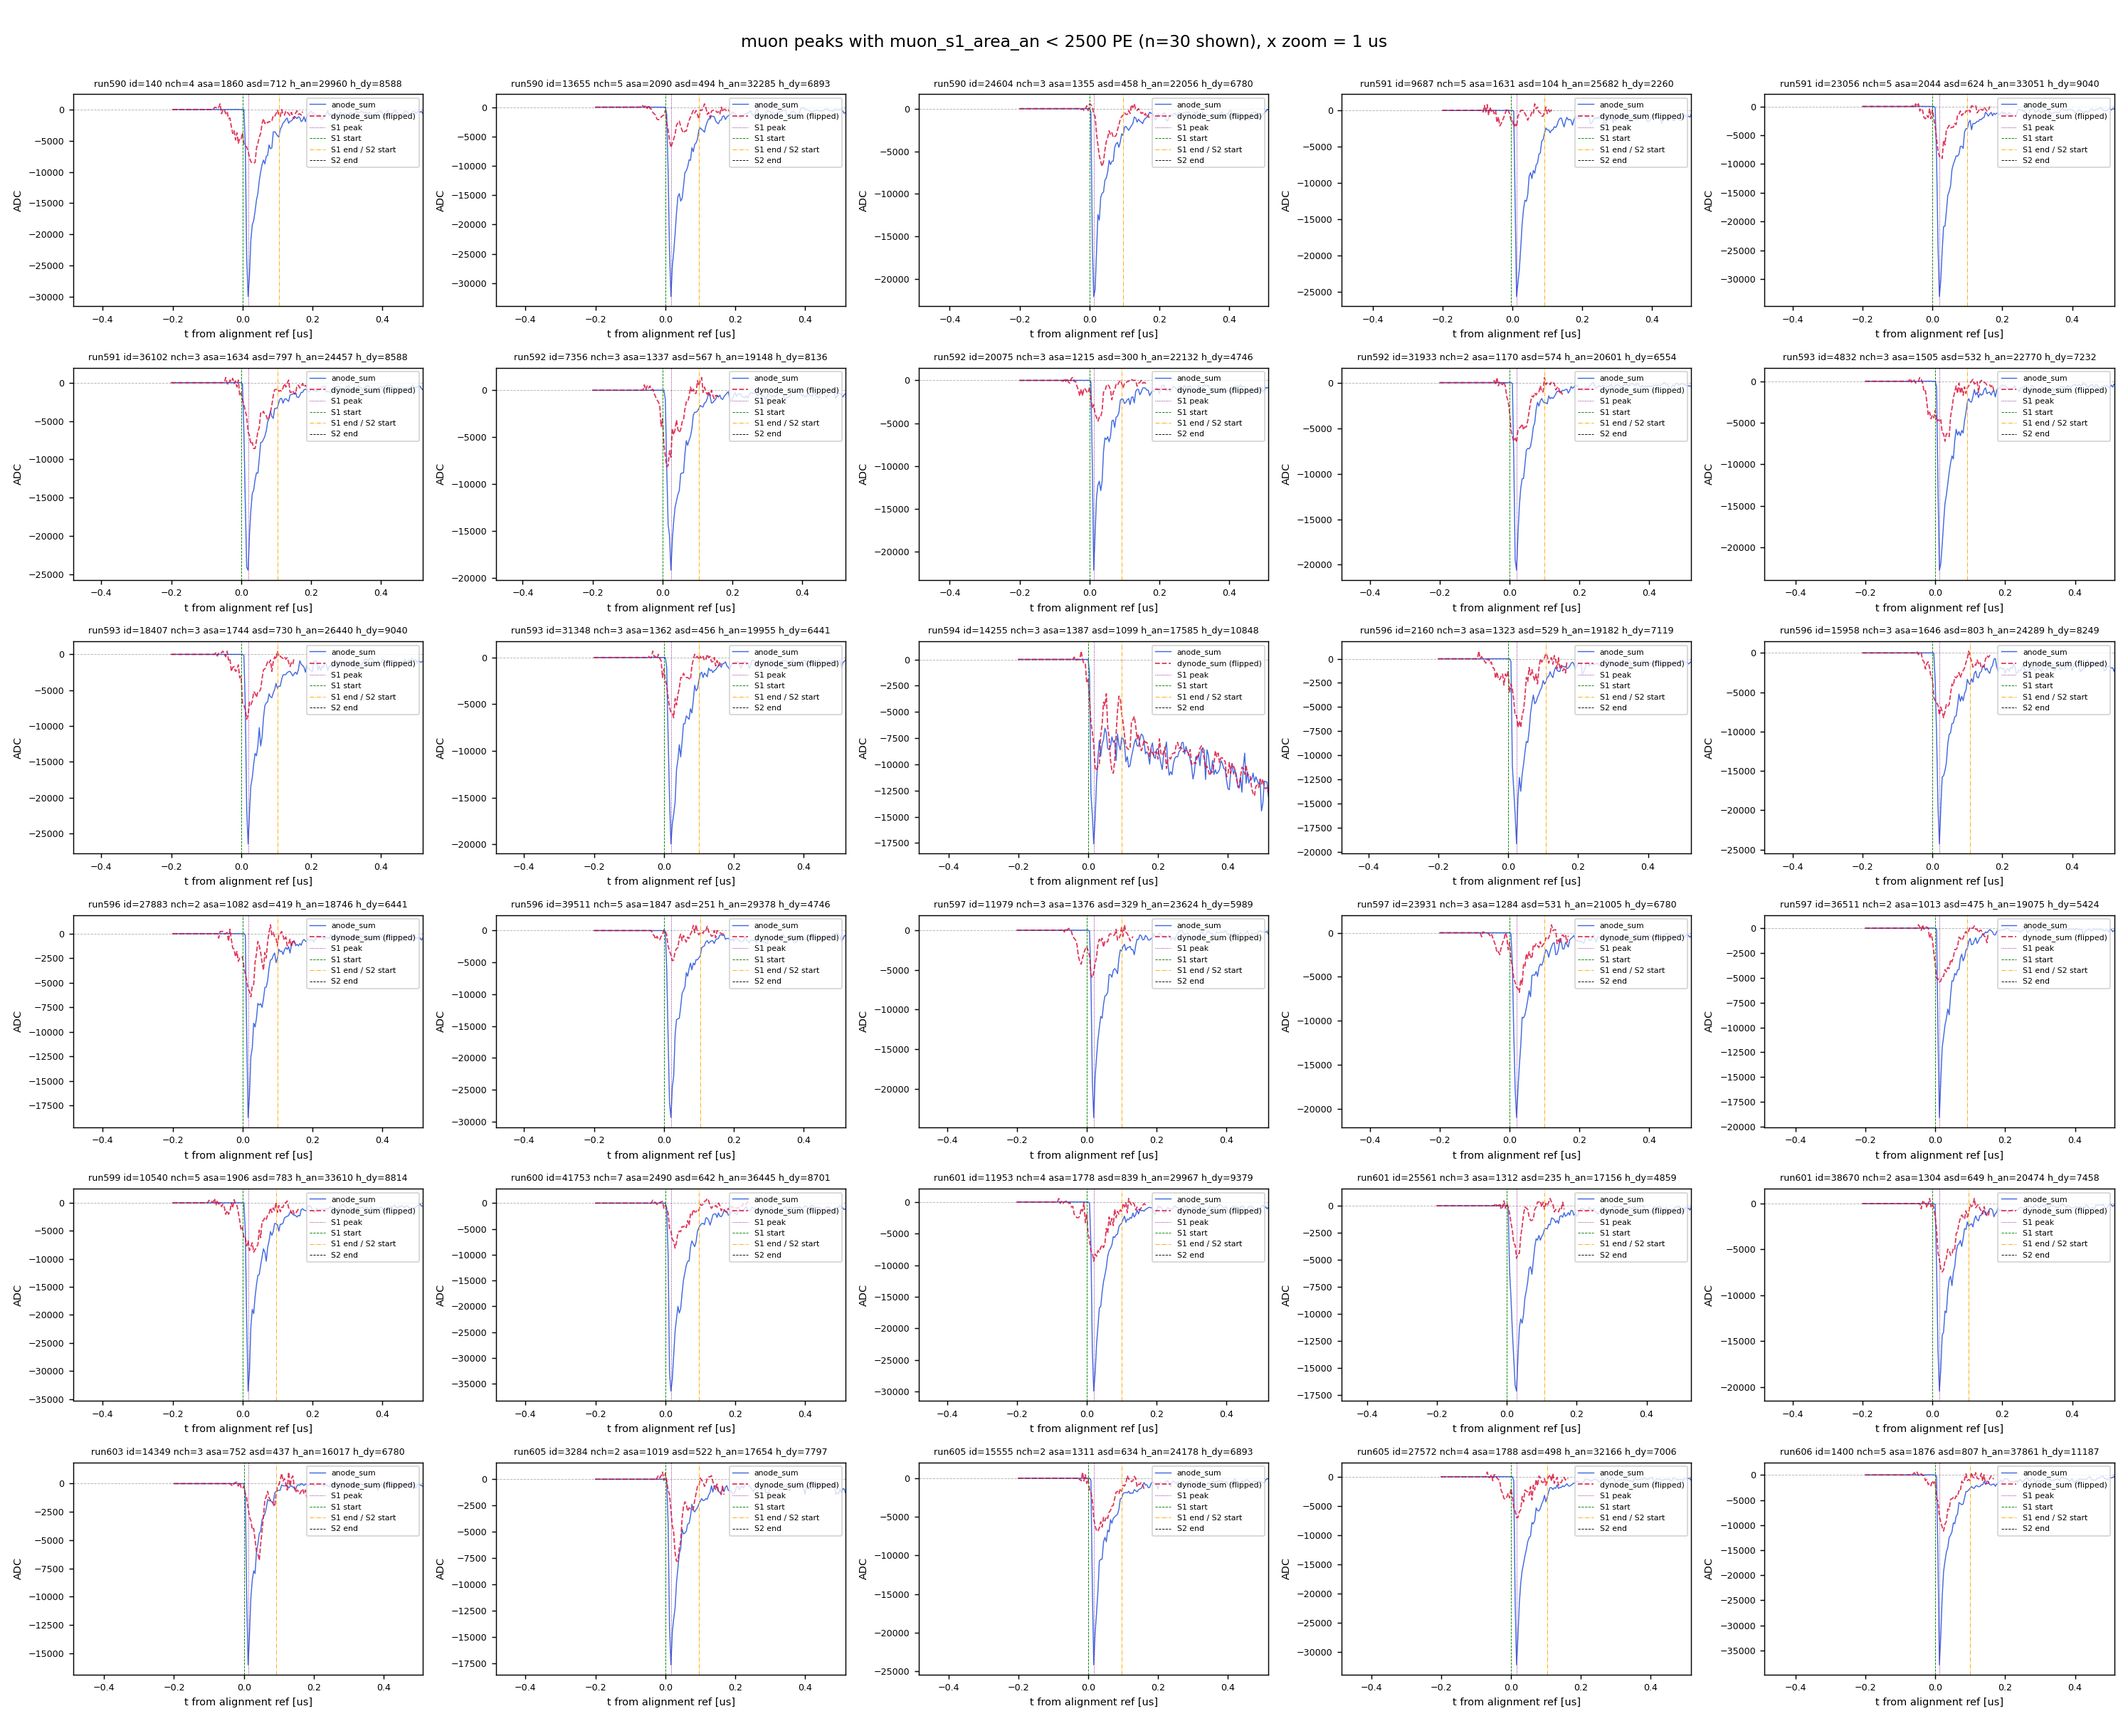
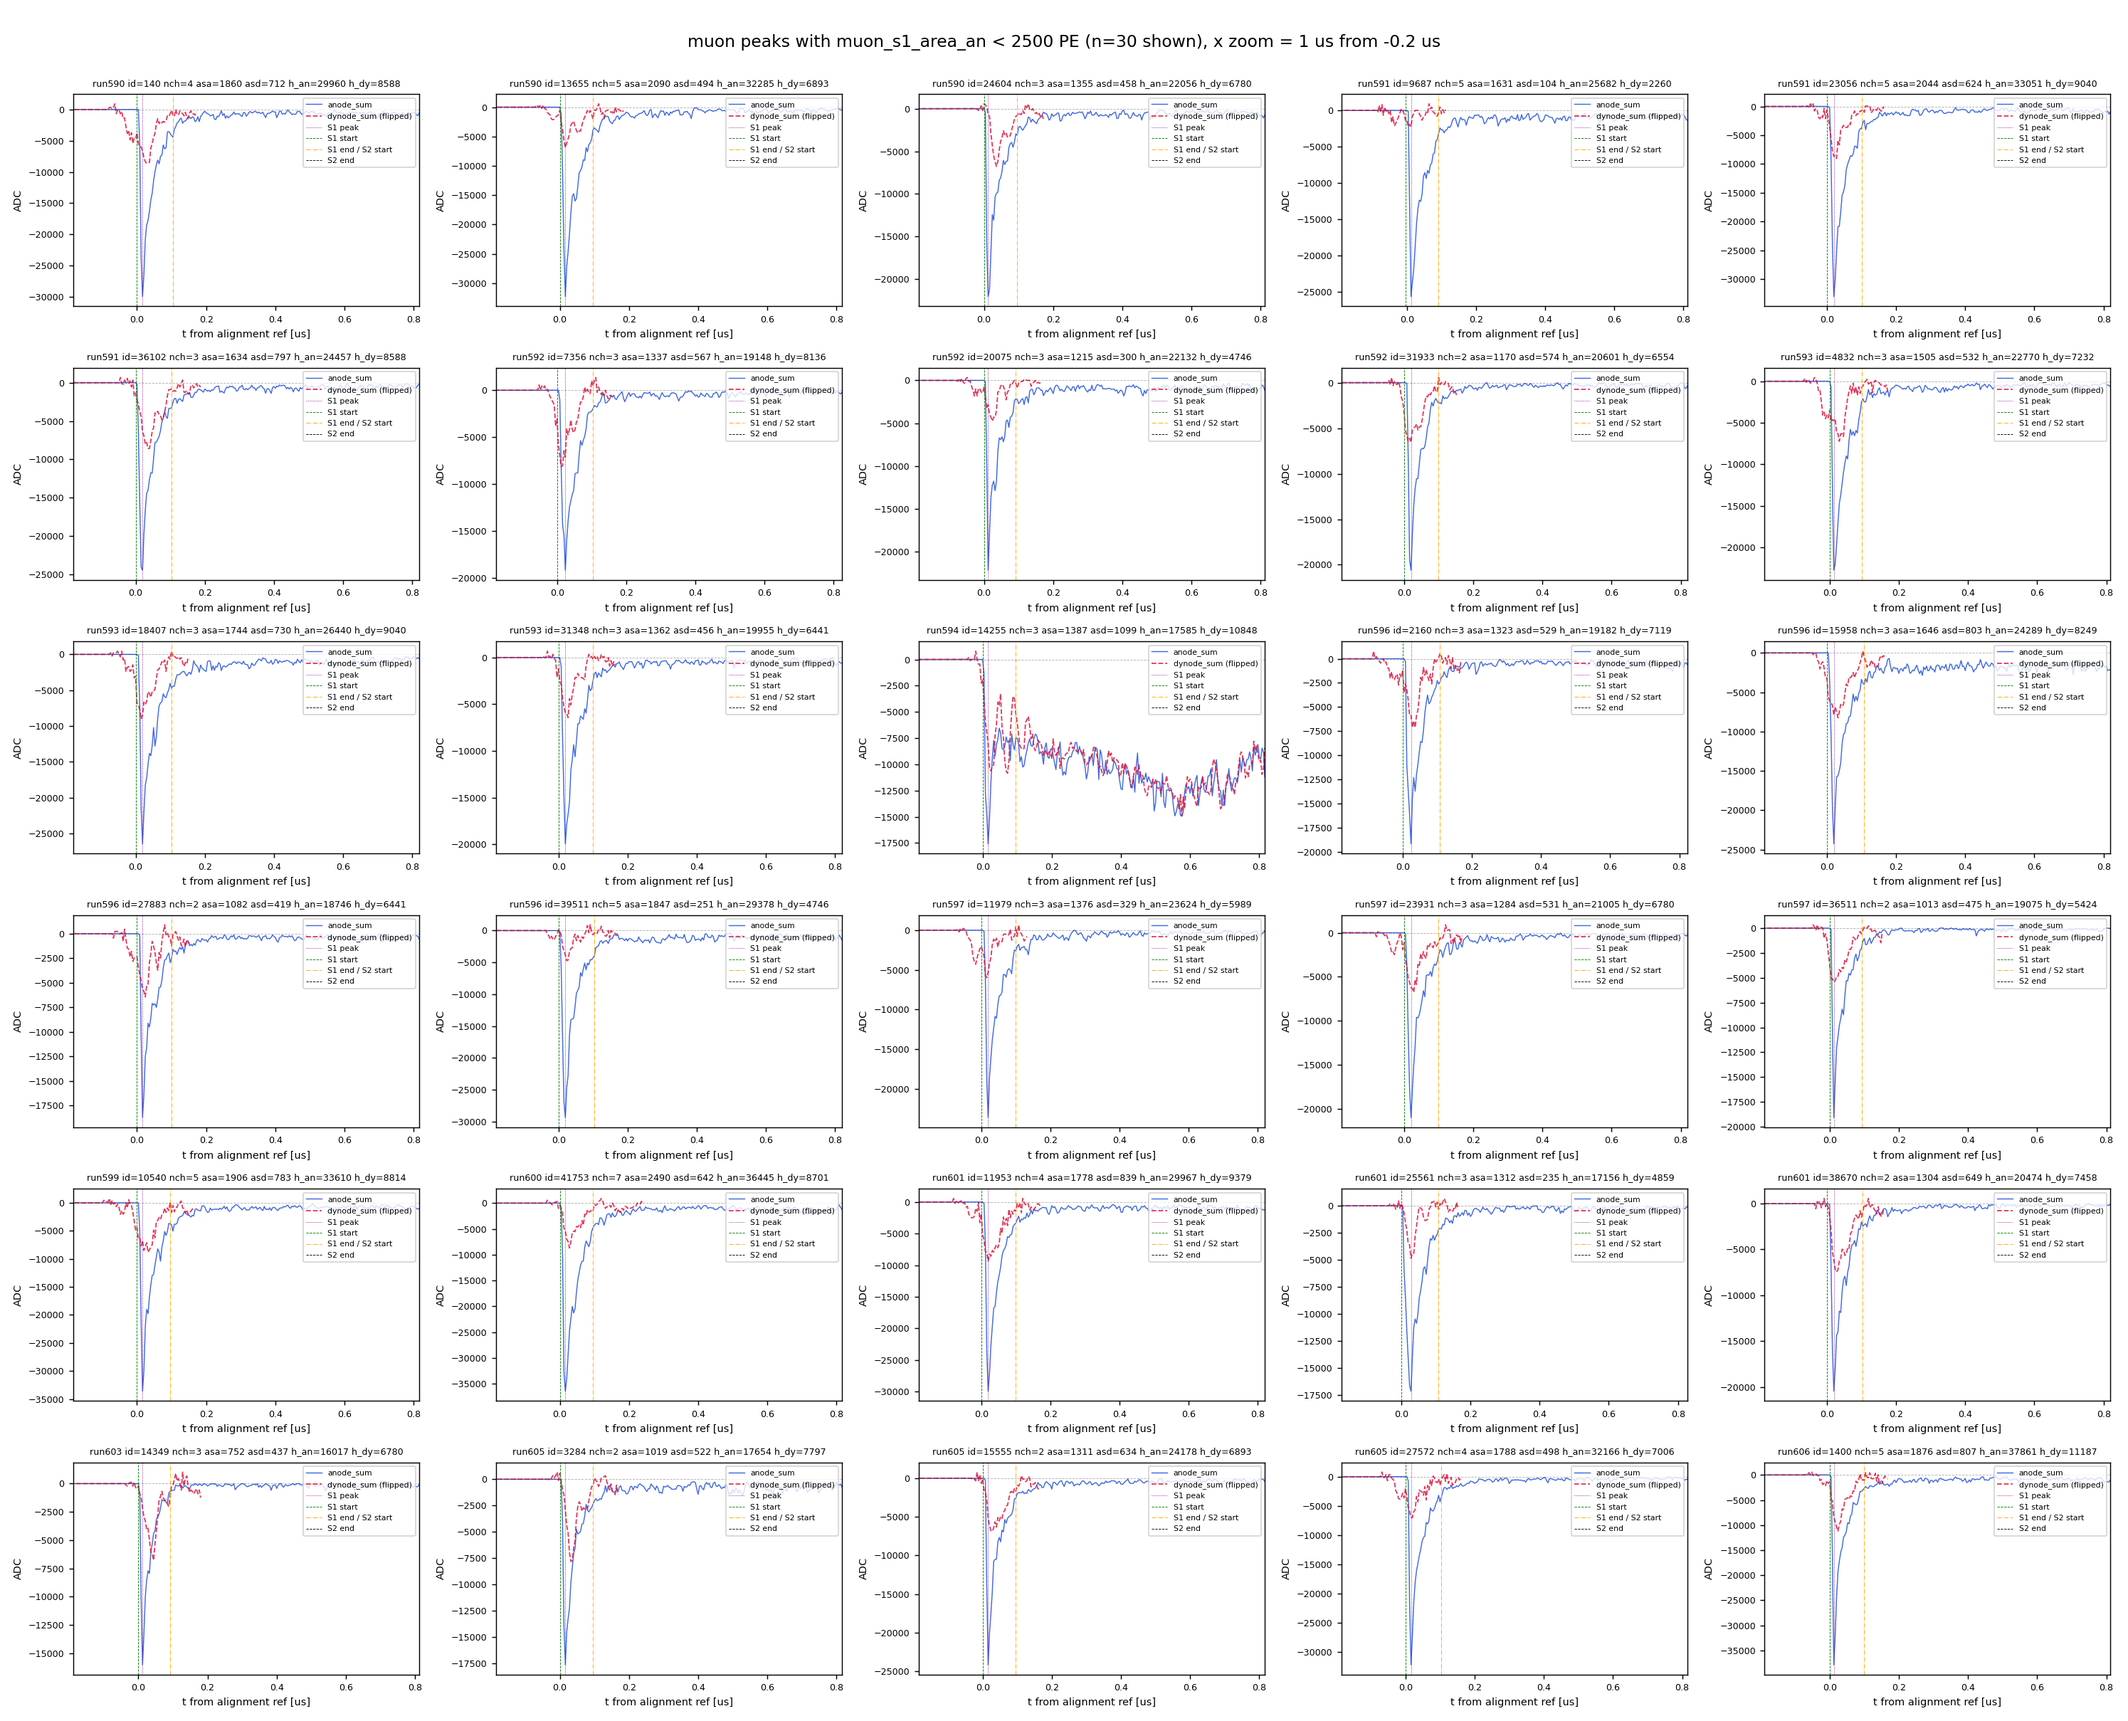
1us zoom: start x at -0.2us (window -0.2 -> +0.8 us)

diff --git a/scripts/plot_muon_lowarea_examples.py b/scripts/plot_muon_lowarea_examples.py
@@ -16,6 +16,7 @@ from muon_analysis.sum_store import load_sum_npz
 AREA_MAX = 2.5e3
 N_EX = 30
 ZOOM_US = float(sys.argv[1]) if len(sys.argv) > 1 else None
+ZOOM_START = float(sys.argv[2]) if len(sys.argv) > 2 else -0.5
 TMP = "/mnt/data/tmp/muon_analysis/co60_590/peak_level_v2"
 DOCS = "/home/yjj/MuonDAS/docs/figures"
 OUT = (f"{TMP}/muon_lowarea_examples_zoom{ZOOM_US:g}us.png" if ZOOM_US
@@ -68,7 +69,7 @@ for ax, (_, row) in zip(axes, picks.iterrows()):
     ax.tick_params(labelsize=7)
     if ZOOM_US:
         tpk = (s1_peak - ref) * 4 / 1000.0
-        ax.set_xlim(tpk - 0.5, tpk - 0.5 + ZOOM_US)
+        ax.set_xlim(tpk + ZOOM_START, tpk + ZOOM_START + ZOOM_US)
     ax.set_xlabel("t from alignment ref [us]", fontsize=8)
     ax.set_ylabel("ADC", fontsize=8)
     ax.legend(fontsize=6, loc="upper right")
@@ -77,7 +78,8 @@ for ax in axes[plotted:]:
     ax.axis("off")
 fig.suptitle(f"muon peaks with muon_s1_area_an < {AREA_MAX:g} PE "
              f"(n={plotted} shown)"
-             + (f", x zoom = {ZOOM_US:g} us" if ZOOM_US else ""), fontsize=13)
+             + (f", x zoom = {ZOOM_US:g} us from {ZOOM_START:+.1f} us"
+                if ZOOM_US else ""), fontsize=13)
 fig.tight_layout(rect=(0, 0, 1, 0.98))
 fig.savefig(OUT, dpi=130)
 plt.close(fig)
